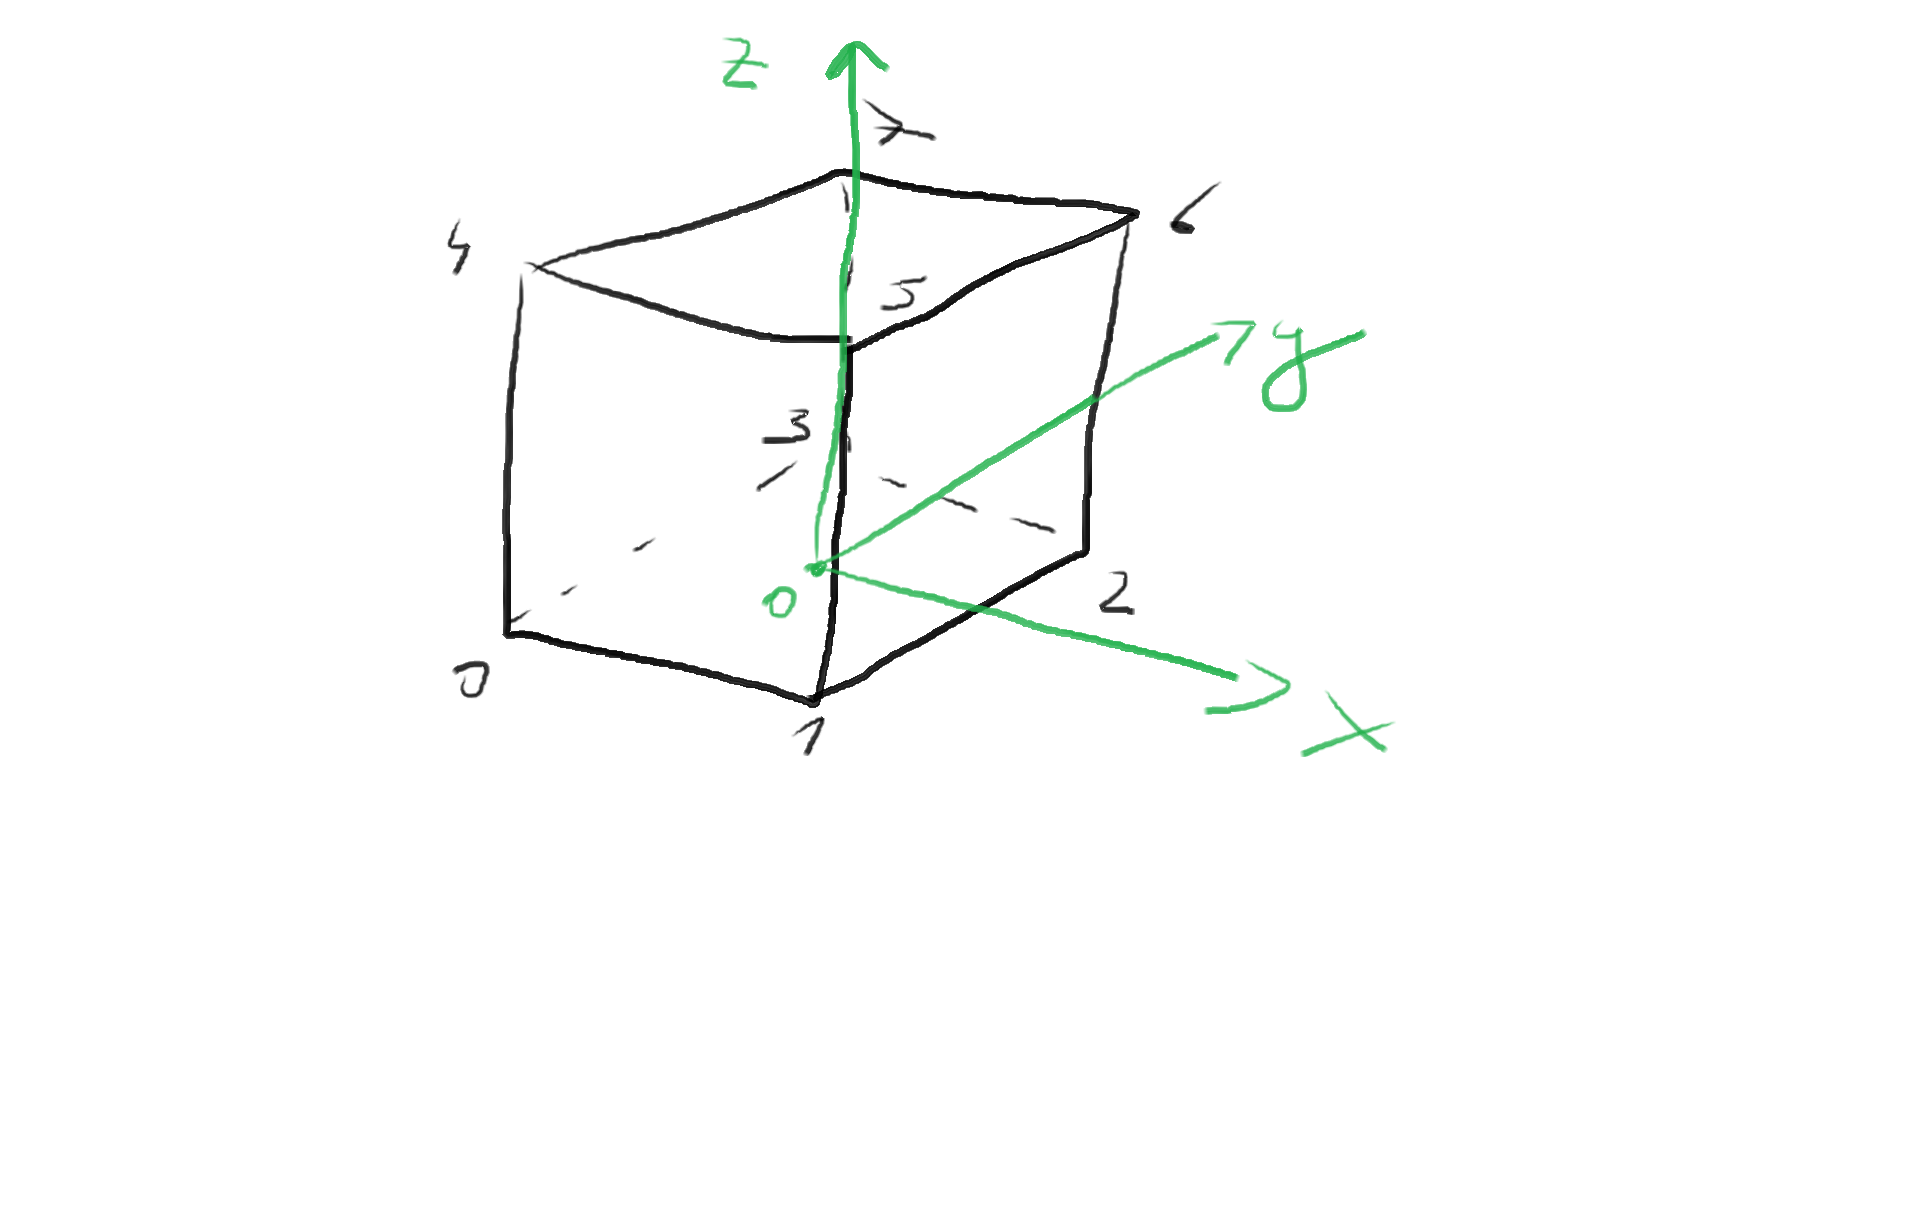
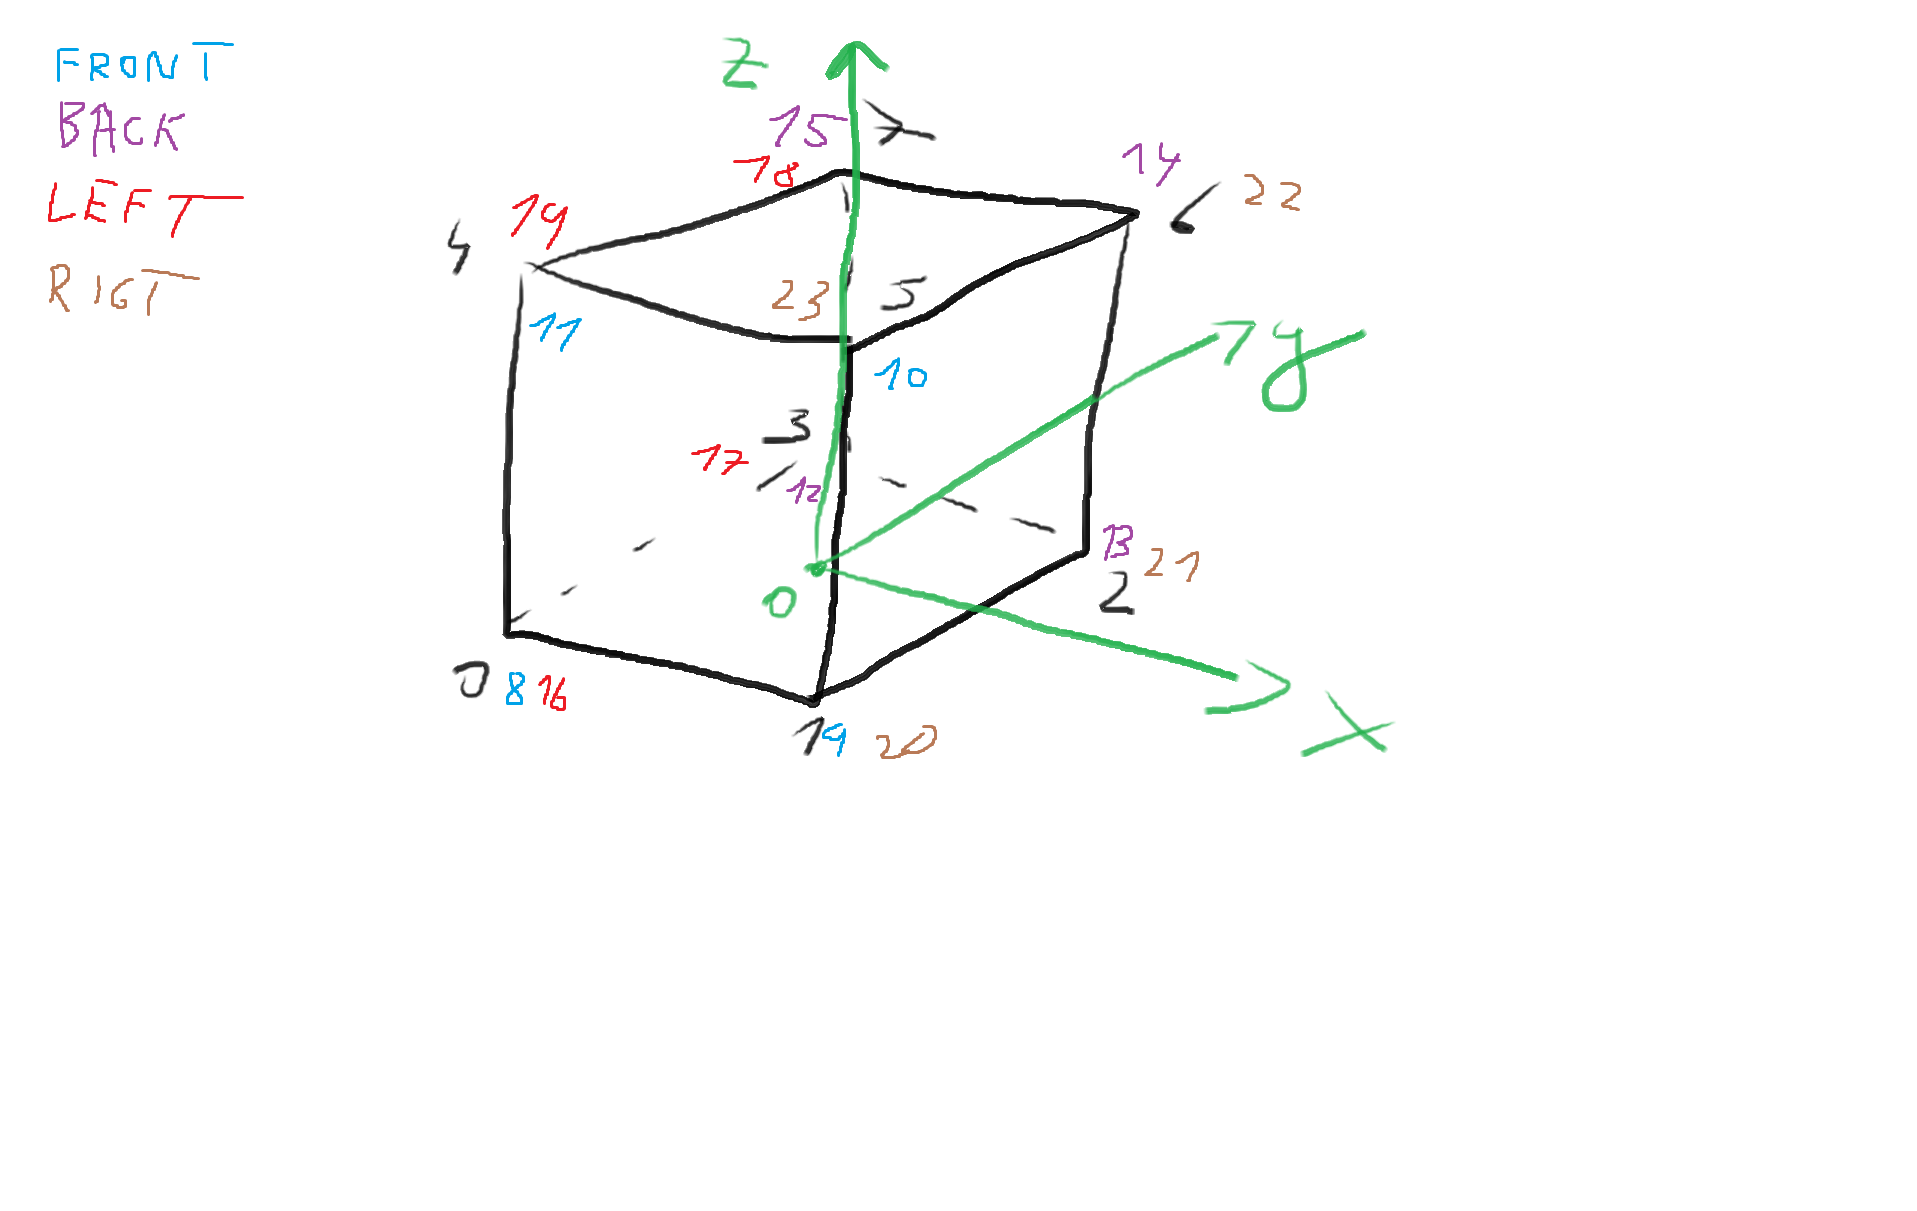
draw cube

diff --git a/SBX/Render/RendererStorage.cpp b/SBX/Render/RendererStorage.cpp
@@ -4,7 +4,6 @@ RendererStorage::RendererStorage()
 {
 	CreateQuad();
 	CreateCube();
-	CreateTextures();
 }
 
 void RendererStorage::CreateQuad()
@@ -35,10 +34,79 @@ void RendererStorage::CreateQuad()
 
 void RendererStorage::CreateCube()
 {
+	float positions[] =
+	{
+		//bot
+		-1.0f, -1.0f, 0.0f,			0.0f, 0.0f,
+		+1.0f, -1.0f, 0.0f,			1.0f, 0.0f,
+		+1.0f, +1.0f, 0.0f,			1.0f, 1.0f,
+		-1.0f, +1.0f, 0.0f,			0.0f, 1.0f,
 
+		//top
+		-1.0f, -1.0f, 2.0f,			0.0f, 0.0f,
+		+1.0f, -1.0f, 2.0f,			1.0f, 0.0f,
+		+1.0f, +1.0f, 2.0f,			1.0f, 1.0f,
+		-1.0f, +1.0f, 2.0f,			0.0f, 1.0f,
+
+		//front
+		-1.0f, -1.0f, 0.0f,			0.0f, 0.0f,
+		+1.0f, -1.0f, 0.0f,			1.0f, 0.0f,
+		+1.0f, -1.0f, 2.0f,			1.0f, 1.0f,
+		-1.0f, -1.0f, 2.0f,			0.0f, 1.0f,
+
+		//back
+		-1.0f, +1.0f, 0.0f,			0.0f, 0.0f,
+		+1.0f, +1.0f, 0.0f,			1.0f, 0.0f,
+		+1.0f, +1.0f, 2.0f,			1.0f, 1.0f,
+		-1.0f, +1.0f, 2.0f,			0.0f, 1.0f,
+
+		//left
+		-1.0f, -1.0f, 0.0f,			0.0f, 0.0f,
+		-1.0f, +1.0f, 0.0f,			1.0f, 0.0f,
+		-1.0f, +1.0f, 2.0f,			1.0f, 1.0f,
+		-1.0f, -1.0f, 2.0f,			0.0f, 1.0f,
+
+		//right
+		+1.0f, -1.0f, 0.0f,			0.0f, 0.0f,
+		+1.0f, +1.0f, 0.0f,			1.0f, 0.0f,
+		+1.0f, +1.0f, 2.0f,			1.0f, 1.0f,
+		+1.0f, -1.0f, 2.0f,			0.0f, 1.0f,
+	};
+
+	unsigned int indices[] =
+	{
+		//bot
+		0, 1, 2,
+		2, 3, 0,
+
+		//top
+		4, 5, 6,
+		6, 7, 4,
+
+		//front
+		8, 9, 10,
+		10, 11, 8,
+
+		//back
+		12, 13, 14,
+		14, 15, 12,
+
+		//left
+		16, 17, 18,
+		18, 19, 16,
+
+		//right
+		20, 21, 22,
+		22, 23, 20
+	};
+
+	m_CubeVB = std::make_shared<VertexBuffer>( positions, 24 * 5 * sizeof( float ) );
+	m_CubeIB = std::make_shared<IndexBuffer>( indices, 36 );
+	m_CubeVA = std::make_shared<VertexArray>();
+	m_CubeVBL = std::make_shared<VertexBufferLayout>();
+	m_CubeVBL->Push<float>( 3 ); //vertex position
+	m_CubeVBL->Push<float>( 2 ); //texture coordinate
+	m_CubeVA->SetVertexBuffer( m_CubeVB, m_CubeVBL );
+	m_CubeVA->SetIndexBuffer( m_CubeIB );
 }
 
-void RendererStorage::CreateTextures()
-{
-
-}

diff --git a/SBX/Render/Renderer.cpp b/SBX/Render/Renderer.cpp
@@ -21,13 +21,23 @@ void Renderer::Draw( const VertexArray &va, const Shader &sh )
 	glDrawElements( GL_TRIANGLES, va.GetIndexBuffer()->GetCount(), GL_UNSIGNED_INT, nullptr );
 }
 
-void Renderer::DrawQuad( const glm::vec3 &pos, const glm::vec3 &rot, float size )
+void Renderer::DrawQuad( const glm::vec3 &pos, const glm::vec3 &rot, const glm::vec2 &size, Shader *shader, Texture *texture )
 {
-	const glm::mat4 model = glm::translate( glm::mat4( 1.0f ), pos ) * glm::eulerAngleXZY( rot.x, rot.y, rot.z ) * glm::scale( glm::mat4( 1.0f ), glm::vec3( size ) );
-	glm::mat4 mvp = m_Camera->m_Proj * m_Camera->m_View * model;
-	//m_Shader->SetUniformMat4f( "u_MVP", mvp );
-	//m_RendererStorage->GetQuadVA()->Bind();
-	//m_RendererStorage->GetQuadTex()->Bind();
-	//glDrawElements( GL_TRIANGLES, m_RendererStorage->GetQuad()->GetIndexBuffer()->GetCount(), GL_UNSIGNED_INT, nullptr );
+	shader->Bind();
+	texture->Bind();
+	m_RendererStorage->GetQuadVA()->Bind();
+	const glm::mat4 model = glm::translate( glm::mat4( 1.0f ), pos ) * glm::eulerAngleXZY( rot.x, rot.y, rot.z ) * glm::scale( glm::mat4( 1.0f ), glm::vec3( size.x, size.y, 1.0f ) );
+	shader->SetUniformMat4f( "u_MVP", m_Camera->m_Proj * m_Camera->m_View * model );
+	glDrawElements( GL_TRIANGLES, m_RendererStorage->GetQuadVA()->GetIndexBuffer()->GetCount(), GL_UNSIGNED_INT, nullptr );
+}
+
+void Renderer::DrawCube( const glm::vec3 &pos, const glm::vec3 &rot, const glm::vec3 &size, Shader *shader, Texture *texture )
+{
+	shader->Bind();
+	texture->Bind();
+	m_RendererStorage->GetCubeVA()->Bind();
+	const glm::mat4 model = glm::translate( glm::mat4( 1.0f ), pos ) * glm::eulerAngleXZY( rot.x, rot.y, rot.z ) * glm::scale( glm::mat4( 1.0f ), glm::vec3( size.x, size.y, size.z ) );
+	shader->SetUniformMat4f( "u_MVP", m_Camera->m_Proj * m_Camera->m_View * model );
+	glDrawElements( GL_TRIANGLES, m_RendererStorage->GetCubeVA()->GetIndexBuffer()->GetCount(), GL_UNSIGNED_INT, nullptr );
 }
 

diff --git a/SBX/Scene/Scenes/SandboxScene.cpp b/SBX/Scene/Scenes/SandboxScene.cpp
@@ -193,23 +193,20 @@ void SandboxScene::OnRender()
 	m_Shader->SetUniformMat4f( "u_MVP", mvpg );
 	Renderer::Draw( *m_VaGround, *m_Shader );
 
-	m_TextureBox->Bind();
 	const glm::vec3 posb1( 0, 0, 0 );
 	const glm::vec3 rotb1( 0, 0, 0 );
-	const float scaleb1 = 1.0f;
-	const glm::mat4 modelb1 = glm::translate( glm::mat4( 1.0f ), posb1 ) * glm::eulerAngleXZY( rotb1.x, rotb1.y, rotb1.z ) * glm::scale( glm::mat4( 1.0f ), glm::vec3( scaleb1 ) );
-	glm::mat4 mvpb1 = Renderer::m_Camera->m_Proj * Renderer::m_Camera->m_View * modelb1;
-	m_Shader->SetUniformMat4f( "u_MVP", mvpb1 );
-	Renderer::Draw( *m_VaBox, *m_Shader );
+	const glm::vec3 sizeb1( 0.1f, 0.1f, 0.1f );
+	Renderer::DrawCube( posb1, rotb1, sizeb1, m_Shader.get(), m_TextureBox.get() );
 
-	m_TextureBox->Bind();
-	const glm::vec3 posb2( 0, -0.5, 0 );
-	const glm::vec3 rotb2( 0, glm::radians( 45.0f ), 0 );
-	const float scaleb2 = 1.0f;
-	const glm::mat4 modelb2 = glm::translate( glm::mat4( 1.0f ), posb2 ) * glm::eulerAngleXZY( rotb2.x, rotb2.y, rotb2.z ) * glm::scale( glm::mat4( 1.0f ), glm::vec3( scaleb2 ) );
-	glm::mat4 mvpb2 = Renderer::m_Camera->m_Proj * Renderer::m_Camera->m_View * modelb2;
-	m_Shader->SetUniformMat4f( "u_MVP", mvpb2 );
-	Renderer::Draw( *m_VaBox, *m_Shader );
+	const glm::vec3 posb2( 0, 0.5, 0 );
+	const glm::vec3 rotb2( 0, glm::radians( +45.0f ), 0 );
+	const glm::vec3 sizeb2( 0.1f, 0.1f, 0.1f );
+	Renderer::DrawCube( posb2, rotb2, sizeb2, m_Shader.get(), m_TextureBox.get() );
+
+	const glm::vec3 posb3( -0.5, 0, 0 );
+	const glm::vec3 rotb3( 0, glm::radians( -45.0f ), 0 );
+	const glm::vec3 sizeb3( 0.1f, 0.1f, 0.1f );
+	Renderer::DrawCube( posb3, rotb3, sizeb3, m_Shader.get(), m_TextureBox.get() );
 }
 
 void SandboxScene::OnImGuiRender()

diff --git a/SBX/Render/RendererStorage.h b/SBX/Render/RendererStorage.h
@@ -13,15 +13,9 @@ public:
 	VertexArray *GetQuadVA() { return m_QuadVA.get(); }
 	VertexArray *GetCubeVA() { return m_CubeVA.get(); }
 
-	Texture *GetQuadTex() { return m_QuadTex.get(); }
-	Texture *GetCubeTex() { return m_CubeTex.get(); }
-
 private:
 	std::shared_ptr<VertexArray> m_QuadVA;
 	std::shared_ptr<VertexArray> m_CubeVA;
-
-	std::shared_ptr<Texture> m_QuadTex;
-	std::shared_ptr<Texture> m_CubeTex;
 
 	std::shared_ptr<VertexBuffer> m_QuadVB;
 	std::shared_ptr<VertexBuffer> m_CubeVB;
@@ -34,5 +28,4 @@ private:
 
 	void CreateQuad();
 	void CreateCube();
-	void CreateTextures();
 };

diff --git a/SBX/Render/Renderer.h b/SBX/Render/Renderer.h
@@ -14,5 +14,6 @@ public:
 	static void InitStorage( float aspectRatio );
 	static void Clear();
 	static void Draw( const VertexArray &va, const Shader &sh );
-	static void DrawQuad( const glm::vec3 &pos, const glm::vec3 &rot, float size );
+	static void DrawQuad( const glm::vec3 &pos, const glm::vec3 &rot, const glm::vec2 &size, Shader *shader, Texture *texture );
+	static void DrawCube( const glm::vec3 &pos, const glm::vec3 &rot, const glm::vec3 &size, Shader *shader, Texture *texture );
 };
